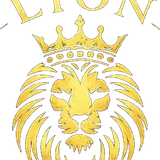
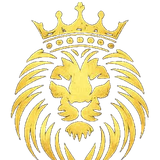
Fix clipped lion mark; send quote form straight to business Gmail
Claude-Session: https://claude.ai/code/session_01DaVXXo8HFdTNrsuGoDsCFR

diff --git a/index.html b/index.html
@@ -193,6 +193,10 @@ form{background:rgba(20,17,13,.92);border:1px solid var(--line);border-radius:va
 .form-note{margin-top:14px;font-size:.88rem;color:var(--mist)}
 .form-error{display:none;margin-bottom:14px;padding:12px 14px;border-radius:var(--radius-sm);border:1px solid #9a4b3a;background:#2a130e;color:#f2c7bb;font-size:.95rem}
 .form-error.show{display:block}
+.form-ok{display:none;margin-top:16px;padding:14px 16px;border-radius:var(--radius-sm);border:1px solid var(--gold);background:rgba(201,162,74,.12);color:var(--ivory)}
+.form-ok.show{display:block}
+form{position:relative}
+.btn[disabled]{opacity:.6;cursor:wait}
 @media (max-width:900px){.quote .wrap{grid-template-columns:1fr;gap:40px}}
 @media (max-width:520px){.grid2{grid-template-columns:1fr;gap:0}form{padding:22px}}
 
@@ -387,7 +391,7 @@ footer ul{list-style:none;margin:0;padding:0;display:grid;gap:6px}
     <div class="wrap">
       <div>
         <h2 id="quote-h">Get your free quote</h2>
-        <p class="lede" style="margin-top:16px">Fill this in and it goes straight to our phone as a text, or to our inbox. Prefer to talk? Call anytime.</p>
+        <p class="lede" style="margin-top:16px">Tell us the plan and we will get back to you with a clear price. Prefer to talk? Call or text anytime.</p>
         <ul class="contact-list">
           <li><a href="tel:+16233208124"><svg viewBox="0 0 24 24" fill="none" stroke="currentColor" stroke-width="2" aria-hidden="true"><path d="M22 16.9v3a2 2 0 0 1-2.2 2 19.8 19.8 0 0 1-8.6-3.1 19.5 19.5 0 0 1-6-6A19.8 19.8 0 0 1 2.1 4.2 2 2 0 0 1 4.1 2h3a2 2 0 0 1 2 1.7c.1.9.4 1.8.7 2.7a2 2 0 0 1-.5 2.1L8 9.8a16 16 0 0 0 6 6l1.3-1.3a2 2 0 0 1 2.1-.4c.9.3 1.8.6 2.7.7a2 2 0 0 1 1.7 2z"/></svg>(623) 320-8124</a></li>
           <li><a href="mailto:lionluxurytransportation@gmail.com"><svg viewBox="0 0 24 24" fill="none" stroke="currentColor" stroke-width="2" aria-hidden="true"><rect x="2" y="4" width="20" height="16" rx="2"/><path d="M22 6l-10 7L2 6"/></svg>lionluxurytransportation@gmail.com</a></li>
@@ -416,11 +420,12 @@ footer ul{list-style:none;margin:0;padding:0;display:grid;gap:6px}
           </div>
         </div>
         <div class="field"><label for="f-notes">Anything else?</label><textarea id="f-notes" name="notes" placeholder="Return trip, extra stops, hours needed"></textarea></div>
+        <input type="text" name="_honey" tabindex="-1" autocomplete="off" aria-hidden="true" style="position:absolute;left:-9999px;width:1px;height:1px;opacity:0">
         <div class="form-actions">
-          <button class="btn btn-gold" type="submit" data-via="sms">Text my request</button>
-          <button class="btn btn-ghost" type="submit" data-via="email">Email my request</button>
+          <button class="btn btn-gold" type="submit" id="sendBtn">Send my request</button>
         </div>
-        <p class="form-note">Your phone opens a message with your details filled in. Just press send.</p>
+        <p class="form-note">Your request goes straight to our inbox. We will call or text you to confirm your quote. In a hurry? <a href="tel:+16233208124" style="color:var(--gold-hi)">Call (623) 320-8124</a>.</p>
+        <div class="form-ok" id="formOk" role="status" tabindex="-1"></div>
       </form>
     </div>
   </section>
@@ -464,33 +469,41 @@ footer ul{list-style:none;margin:0;padding:0;display:grid;gap:6px}
 <script>
 (function(){
   var y=document.getElementById('yr'); if(y) y.textContent=new Date().getFullYear();
-  var form=document.getElementById('quoteForm'), err=document.getElementById('formError'), via='sms';
+  var form=document.getElementById('quoteForm'), err=document.getElementById('formError'), ok=document.getElementById('formOk'), btn=document.getElementById('sendBtn');
   var d=document.getElementById('f-date'); if(d){d.min=new Date().toISOString().slice(0,10);}
-  form.querySelectorAll('button[data-via]').forEach(function(b){b.addEventListener('click',function(){via=b.dataset.via;});});
+  var ENDPOINT='https://formsubmit.co/ajax/lionluxurytransportation@gmail.com';
   form.addEventListener('submit',function(e){
     e.preventDefault();
-    var f=form.elements, missing=[];
-    [['name','your name'],['phone','a phone number'],['date','the date'],['pickup','a pickup location']].forEach(function(r){ if(!f[r[0]].value.trim()) missing.push(r[1]); });
-    if(missing.length){ err.textContent='Add '+missing.join(', ')+' so we can quote your ride.'; err.classList.add('show'); f[[ 'name','phone','date','pickup'].find(function(k){return !f[k].value.trim();})].focus(); return; }
+    var f=form.elements, req=[['name','your name'],['phone','a phone number'],['date','the date'],['pickup','a pickup location']];
+    var missing=req.filter(function(r){return !f[r[0]].value.trim();});
+    if(missing.length){ err.textContent='Add '+missing.map(function(r){return r[1];}).join(', ')+' so we can quote your ride.'; err.classList.add('show'); f[missing[0][0]].focus(); return; }
     err.classList.remove('show');
-    var lines=[
-      'Lion Luxury quote request',
-      'Name: '+f.name.value.trim(),
-      'Phone: '+f.phone.value.trim(),
-      'Date: '+f.date.value+(f.time.value?' at '+f.time.value:''),
-      'Pickup: '+f.pickup.value.trim(),
-      f.dropoff.value.trim()?'Destination: '+f.dropoff.value.trim():'',
-      f.passengers.value?'Passengers: '+f.passengers.value:'',
-      'Occasion: '+f.occasion.value,
-      f.notes.value.trim()?'Notes: '+f.notes.value.trim():''
-    ].filter(Boolean).join('\n');
-    var body=encodeURIComponent(lines);
-    if(via==='email'){
-      location.href='mailto:lionluxurytransportation@gmail.com?subject='+encodeURIComponent('Quote request: '+f.occasion.value+' on '+f.date.value)+'&body='+body;
-    } else {
-      var sep=/iPad|iPhone|iPod|Macintosh/.test(navigator.userAgent)?'&':'?';
-      location.href='sms:+16233208124'+sep+'body='+body;
-    }
+    if(f._honey.value){ return; }
+    var data={
+      _subject:'New quote request: '+f.occasion.value+' on '+f.date.value+' ('+f.name.value.trim()+')',
+      _template:'table',
+      _captcha:'false',
+      Name:f.name.value.trim(),
+      Phone:f.phone.value.trim(),
+      Date:f.date.value,
+      'Pickup time':f.time.value||'Not given',
+      Pickup:f.pickup.value.trim(),
+      Destination:f.dropoff.value.trim()||'Not given',
+      Passengers:f.passengers.value||'Not given',
+      Occasion:f.occasion.value,
+      Notes:f.notes.value.trim()||'None'
+    };
+    btn.disabled=true; btn.textContent='Sending...';
+    fetch(ENDPOINT,{method:'POST',headers:{'Content-Type':'application/json','Accept':'application/json'},body:JSON.stringify(data)})
+      .then(function(r){return r.json().then(function(j){ if(!r.ok||String(j.success)!=='true') throw new Error(j.message||'failed'); });})
+      .then(function(){
+        form.reset(); ok.textContent='Request sent. We will call or text you shortly to confirm your quote.'; ok.classList.add('show'); ok.focus();
+        btn.textContent='Sent'; setTimeout(function(){btn.disabled=false;btn.textContent='Send my request';},4000);
+      })
+      .catch(function(){
+        err.innerHTML='Your request did not go through. Call or text <a href="tel:+16233208124" style="color:inherit">(623) 320-8124</a> and we will book you directly.'; err.classList.add('show');
+        btn.disabled=false; btn.textContent='Send my request';
+      });
   });
 })();
 </script>

diff --git a/README.md b/README.md
@@ -6,6 +6,6 @@ Static one-page site for Lion Luxury Services, luxury Mercedes Sprinter transpor
 - `assets/`: optimized photos, logo, favicon and self-hosted fonts (Cinzel, Jost)
 - `.htaccess`: caching and compression on Hostinger
 
-The quote form needs no server. It opens a prefilled text to (623) 320-8124 or an email to lionluxurytransportation@gmail.com.
+The quote form posts to FormSubmit (formsubmit.co), which emails each request to lionluxurytransportation@gmail.com. The first submission triggers a one-time activation email to that inbox.
 
 Deploys to Hostinger from the `main` branch.
